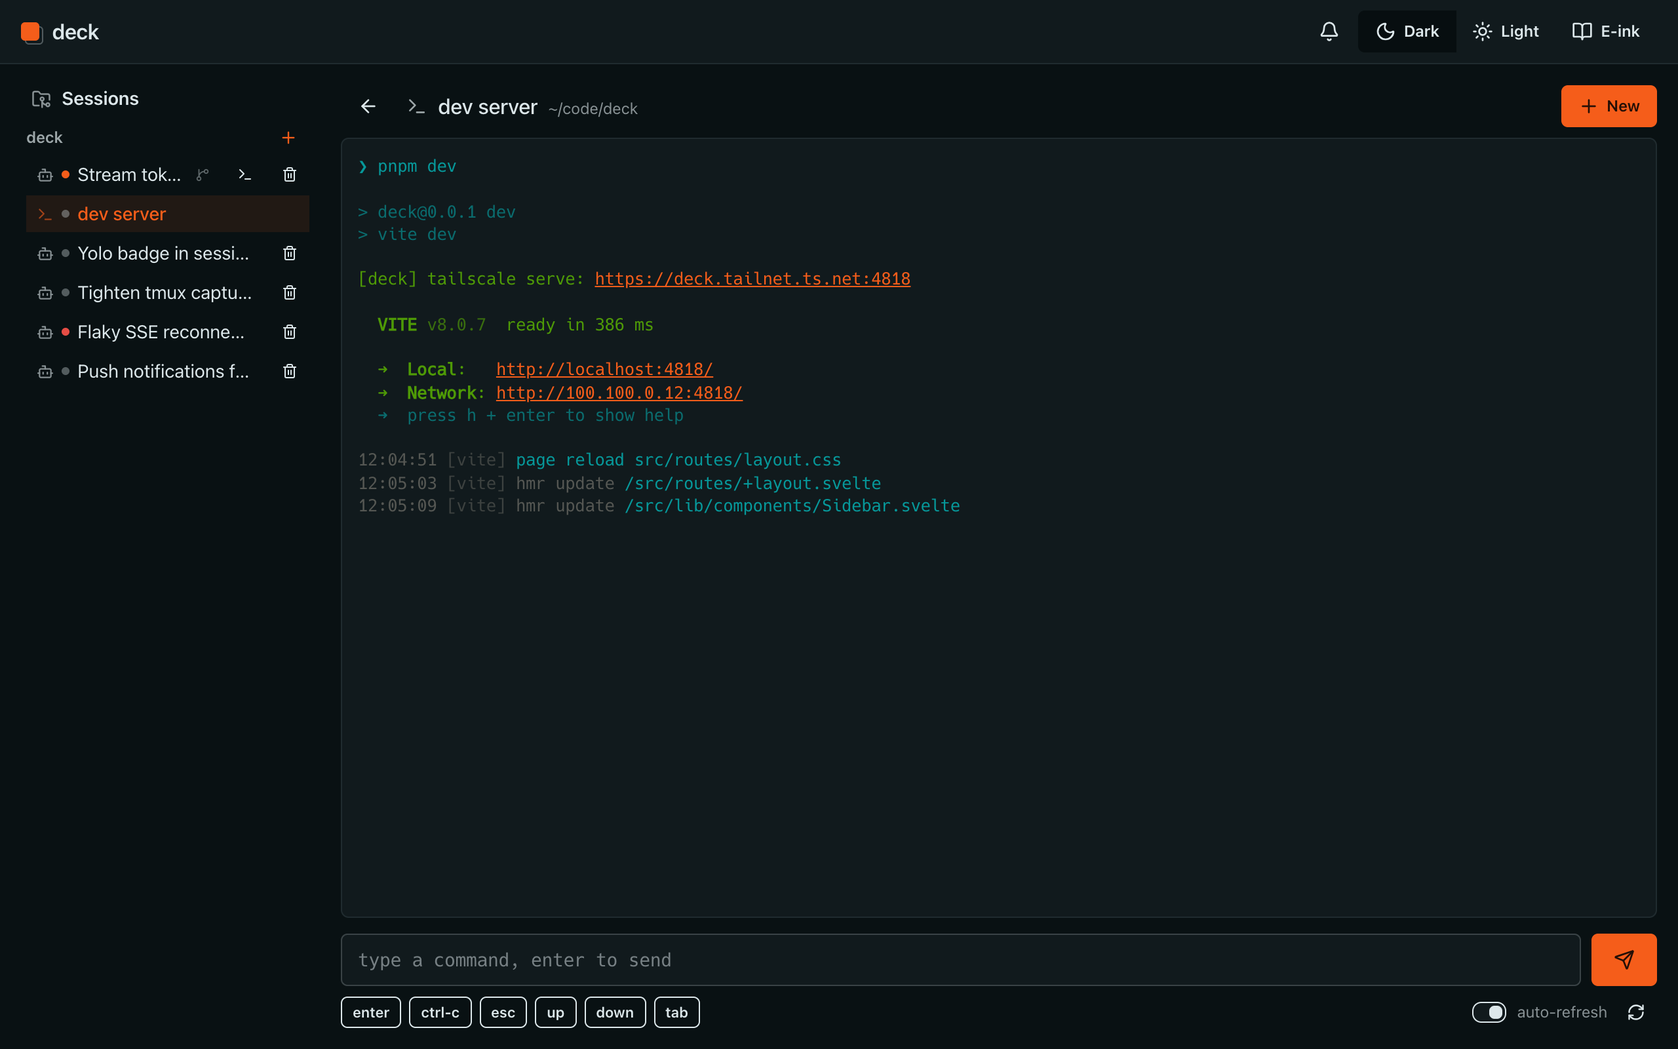
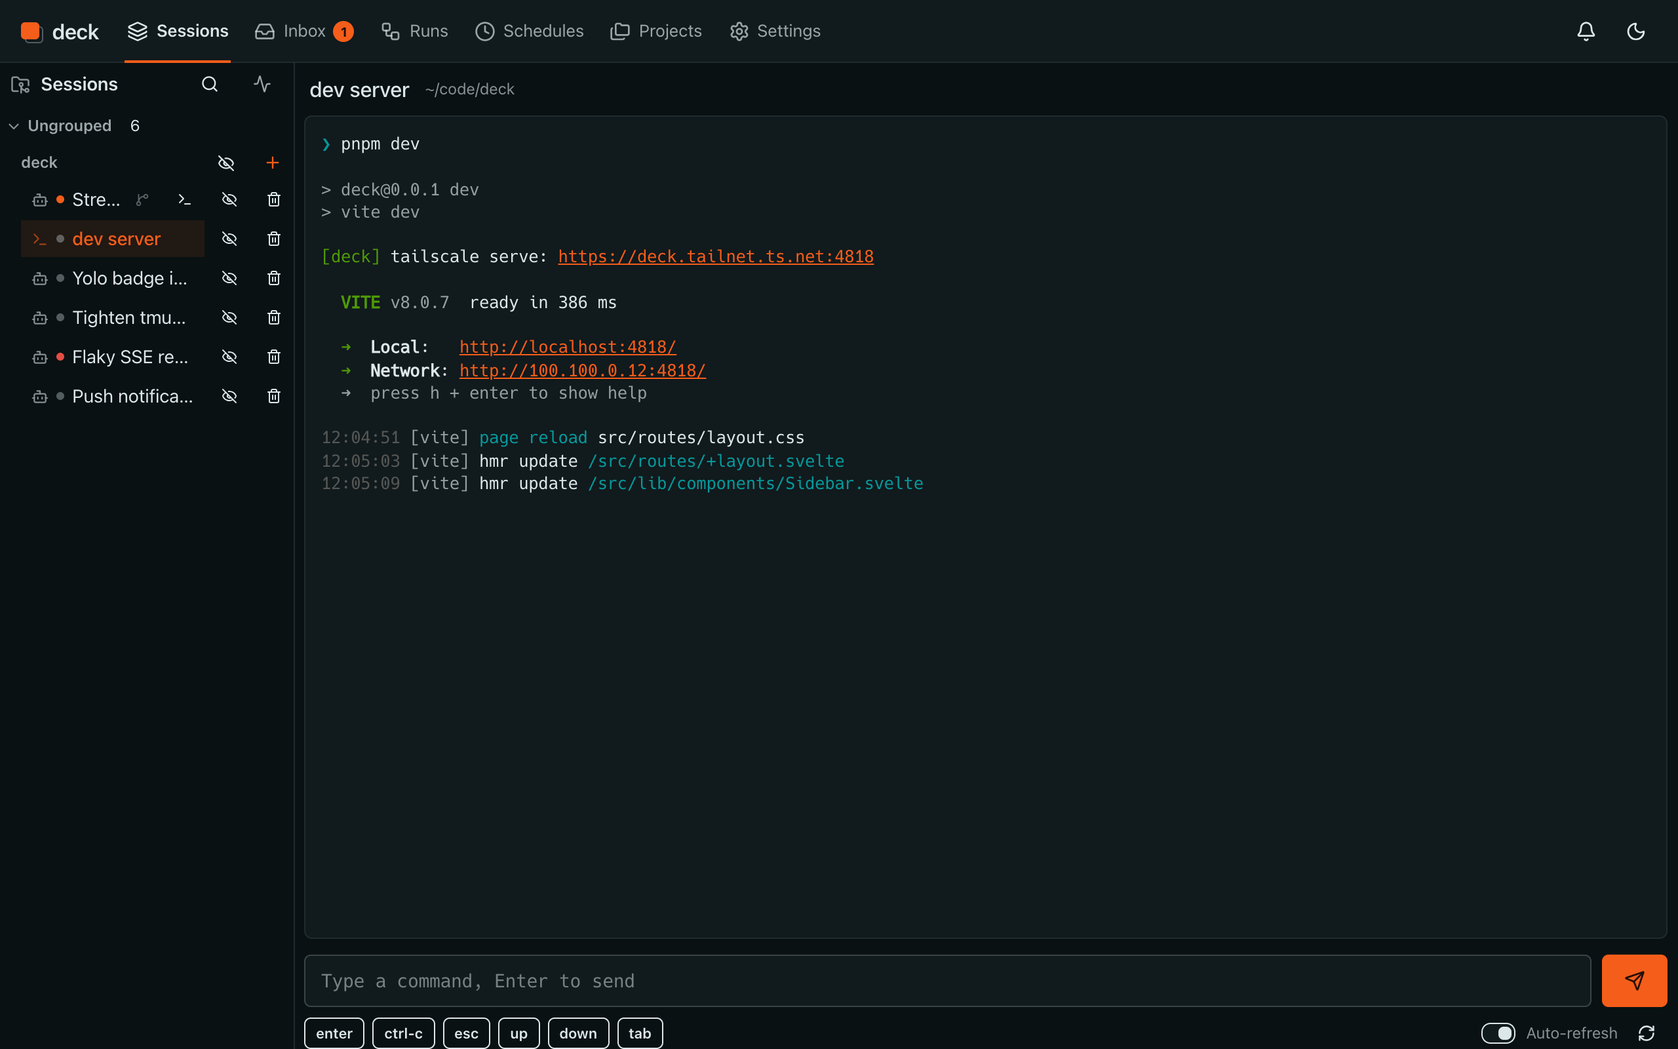
Point the docs at the settings page and refresh the screenshots
README and the iOS README send voice, the watch operator and auto-compact
to Settings instead of Projects, and the README now covers the inbox, the
settings page, sharing files, the skills picker, the app's terminal and
the native Mac app. The parity audit's remaining-differences section is
replaced with the current state: what is at parity on web, app and Mac,
what is deliberately different, and what is left.

Screenshots are regenerated from DECK_DEMO=1 at the existing sizes, plus
the inbox and settings. Demo mode gains one canned question so the inbox
shot has something in it.

Plan item P31.

diff --git a/src/lib/server/demo.ts b/src/lib/server/demo.ts
@@ -84,6 +84,30 @@ export function demoSessions(): DeckSession[] {
 	];
 }
 
+// One question waiting in the inbox, so its screenshot has something to show.
+export function demoAsks() {
+	return [
+		{
+			source: 'mcp' as const,
+			sessionId: 'c_yolo',
+			askId: 'demo-ask',
+			askedAt: Date.now() - 2 * 60_000,
+			questions: [
+				{
+					header: 'Badge style',
+					question: 'How should the yolo badge look in the session header?',
+					multiSelect: false,
+					options: [
+						{ label: 'Outline', description: 'A quiet outlined badge beside the title' },
+						{ label: 'Warning', description: 'Filled in the warning colour, hard to miss' },
+						{ label: 'Icon only', description: 'A small shield icon with a tooltip' }
+					]
+				}
+			]
+		}
+	];
+}
+
 export function demoSession(id: string): DeckSession | undefined {
 	return demoSessions().find((s) => s.id === id);
 }

diff --git a/src/routes/api/agent/asks/+server.ts b/src/routes/api/agent/asks/+server.ts
@@ -2,11 +2,13 @@ import { json } from '@sveltejs/kit';
 import type { RequestHandler } from './$types';
 import { listPendingAsks } from '$lib/server/ask';
 import { runAsks } from '$lib/server/workflow-api';
+import { DEMO, demoAsks } from '$lib/server/demo';
 
 // Every MCP `ask` currently blocking on a human answer, across all sessions,
 // oldest first, with the questions and options inline so an orchestrator can
 // answer (POST /api/agent/sessions/[id]/answer) without parsing events off an
 // SSE stream. Blocked workflow runs are listed too, with `source: "run"`.
 export const GET: RequestHandler = async () => {
+	if (DEMO) return json(demoAsks());
 	return json([...listPendingAsks(), ...runAsks()].sort((a, b) => a.askedAt - b.askedAt));
 };

diff --git a/README.md b/README.md
@@ -10,13 +10,21 @@ A structured chat view for Claude sessions, with inline diffs and collapsible to
 
 ![Claude chat view](docs/screenshots/claude-chat.png)
 
-One flat, recency-sorted list of every session across claude, pi, codex, opencode, and shells:
+One flat, recency-sorted list of every session across Claude, pi, Codex, OpenCode, and shells:
 
 ![Session list](docs/screenshots/sessions-list.png)
 
 A polled terminal view for tmux shells:
 
 ![Terminal view](docs/screenshots/terminal.png)
+
+An inbox of everything waiting on you, answered in place:
+
+![Inbox](docs/screenshots/inbox.png)
+
+Server-wide settings on one page:
+
+![Settings](docs/screenshots/settings.png)
 
 Light, dark, and e-ink themes (e-ink drops all motion and shadows for a flat, monochrome render):
 
@@ -99,7 +107,14 @@ Dev server: `pnpm dev`.
 
 ## Native apps
 
-The iPhone, iPad, Apple Watch and Mac clients live in [`apps/ios`](apps/ios/README.md): SwiftUI over deck's agent API, with Siri, Live Activities, a share extension and the voice operator. They build with XcodeGen and ship to TestFlight with fastlane; see that README.
+The iPhone, iPad, Apple Watch and Mac clients live in [`apps/ios`](apps/ios/README.md): SwiftUI over deck's agent API, with Siri, Live Activities, a share extension and the voice operator. The phone and iPad app does what the web does: chat and terminal sessions (the terminal renders the same colour snapshot, with a key bar for Enter, Ctrl-C, Esc, the arrows, Tab and Ctrl-D), starting sessions from issues or PRs, the inbox, projects, issue sources, dev servers, and the deck server's settings. The native Mac app (macOS 15 and later) runs the same session views in a Mac window, with the dev browser and push-to-talk voice, and signs in by pairing with a device that is already signed in. The watch is deliberately smaller: it shows each session's latest reply, answers questions and starts quick sessions. They build with XcodeGen and ship to TestFlight with fastlane; see that README.
+
+## Inbox and settings
+
+The nav at the top (a bottom bar on a phone) reaches every page: Sessions, Inbox, Runs, Schedules, Projects and Settings.
+
+- **Inbox** collects everything waiting on you: questions sessions have asked, and workflow runs blocked on a decision. Answer each one in place, with the same option buttons as the session view; the nav shows how many are waiting.
+- **Settings** holds what applies to the whole deck server rather than to one project: the theme (saved per browser), the voice servers, the watch operator's model, auto-compact, installing deck's skill into each coding agent, signing in another device (the QR code and access requests) and the SSH target for **Open in Zed**. **Projects** keeps per-project setup: paths, templates, issue sources, dev servers and automation.
 
 ## Remote access (Tailscale)
 
@@ -143,7 +158,7 @@ Prefer your agent harness's own notifications? deck stamps `DECK_SESSION_ID` int
 
 ## Voice mode
 
-Turn on the waveform toggle in a session's composer and deck reads each new reply aloud and lets you talk back. It needs a speech server that speaks the OpenAI audio shapes: `POST /v1/audio/speech` for reading and `POST /v1/audio/transcriptions` for push-to-talk. Point deck at yours under **Projects > Voice mode** (or the `speech` block in `~/.deck/settings.json`); **Detect local server** fills the fields when one is running on `127.0.0.1:17496`. deck proxies both, caches synthesised sentences in `~/.deck/speech/`, and hides the feature when nothing is configured.
+Turn on the waveform toggle in a session's composer and deck reads each new reply aloud and lets you talk back. It needs a speech server that speaks the OpenAI audio shapes: `POST /v1/audio/speech` for reading and `POST /v1/audio/transcriptions` for push-to-talk. Point deck at yours under **Settings > Voice** (or the `speech` block in `~/.deck/settings.json`); **Detect local server** fills the fields when one is running on `127.0.0.1:17496`. deck proxies both, caches synthesised sentences in `~/.deck/speech/`, and hides the feature when nothing is configured.
 
 What it does:
 
@@ -171,7 +186,7 @@ leaves the device. Siri covers the same ground for one-shot commands; see the
 
 An Apple Watch still asks deck to think for it: watchOS ships Apple's model
 framework but marks the model itself unavailable. That is the only thing left
-needing the `operator` block in `~/.deck/settings.json` (**Projects > Watch
+needing the `operator` block in `~/.deck/settings.json` (**Settings > Watch
 operator**): `url`, `model`, an optional `provider` (`openai` or `anthropic`,
 otherwise read from the URL), and for a hosted model either `apiKeyFile` (a
 path, so the key lives in `~/.secrets`) or `apiKey`. Pointing it at Claude costs
@@ -202,12 +217,13 @@ Upgrading with an existing `~/.deck/secrets.json` migrates automatically on the 
 - **Projects** are registered paths in `~/.deck/projects.json` that populate the new-session picker. Each can carry a template first-prompt with `[title]`, `[branch]`, `[cwd]` placeholders. The home list groups sessions by project (worktrees fold under their repo); each group has a quick-add button.
 - **Path inputs** autocomplete directories as you type and resolve a leading `~/` to your home directory.
 - **Session sidebar**: the session view has a project-grouped switcher (sticky on desktop, a hamburger drawer on mobile) for jumping between sessions, quick-adding a session to a project, or opening a shell straight into a Claude worktree.
-- **Context window**: the bar above the composer shows how full the session's context is, next to the running cost. The figure comes from the stream itself (the last assistant message's token usage, against the `contextWindow` the model reports), so a 200k and a 1M session are each measured against their own limit. **Compact** there summarises the history and frees the window on demand. Claude compacts on its own too, but only once the window is genuinely full: measured across this machine's transcripts it fires at 999k to 1003k of 1M and takes 50 to 75 seconds, all of it landing at the end of a turn you were waiting on. Turn on **Projects > Auto-compact** and deck compacts earlier, at a percentage you pick (50 to 95, default 80). What it keeps is what a handoff keeps: goal, what is done and in progress, next steps, blockers, key files, decisions, and git state. Claude sessions only.
+- **Context window**: the bar above the composer shows how full the session's context is, next to the running cost. The figure comes from the stream itself (the last assistant message's token usage, against the `contextWindow` the model reports), so a 200k and a 1M session are each measured against their own limit. **Compact** there summarises the history and frees the window on demand. Claude compacts on its own too, but only once the window is genuinely full: measured across this machine's transcripts it fires at 999k to 1003k of 1M and takes 50 to 75 seconds, all of it landing at the end of a turn you were waiting on. Turn on **Settings > Auto-compact** and deck compacts earlier, at a percentage you pick (50 to 95, default 80). What it keeps is what a handoff keeps: goal, what is done and in progress, next steps, blockers, key files, decisions, and git state. Claude sessions only.
 - **Renaming**: click a session's name in its header and type. Enter or clicking away saves, Escape puts the old name back; the iOS app has the same thing under the session menu and on a row swipe. An unregistered tmux terminal has no deck record, so renaming it renames the tmux session itself: its `t_<name>` id moves with it (deck follows the redirect), a `:` becomes `-` because tmux could not target the session otherwise, and a name another terminal already holds is refused.
 - **Questions**: when Claude asks a multiple-choice question it goes through deck's own blocking MCP `ask` tool, not the built-in `AskUserQuestion` (which the headless CLI can only auto-dismiss). deck renders the options as buttons; your pick resolves the still-open tool call and the same turn carries on. The chosen options stay on the card after reload.
 - **Tool calls** render structured: Bash shows the command, Edit/MultiEdit a red/green line diff, Write its content as an added-line diff, TodoWrite the checklist. Bash output and the diffs collapse behind a single shared toggle (collapsed by default); flip one and they all flip. Each result is paired back to its call.
-- **Images**: paste into the Claude composer, pick with the paperclip, or drag-and-drop onto the conversation. They're sent as base64 blocks and shown inline.
-- **Schedules**: a prompt that runs on a clock, for the recurring jobs that want an agent rather than a cron entry ("what changed across these repos this week, and does any of it need me"). Each schedule holds a five-field cron expression read in local time and either a project, where every run starts a fresh session, or one existing session, where every run sends into it so the context carries over. The **Schedules** page (the clock beside Runs) adds and edits them, and previews the next three runs so an expression explains itself. The command palette has *Repeat a prompt on a schedule*, which is how a session you are already in becomes one. Due times are stored rather than matched, so a window missed while deck was down fires once instead of once a minute, and a window missed by over an hour is recorded as skipped rather than caught up. A run is skipped while the previous one is still going.
+- **Images and files**: paste into the composer, pick with the paperclip, or drag-and-drop onto the conversation. Images (PNG, JPEG, GIF, WebP) are sent as base64 blocks and shown inline. Anything else (a PDF, a log, a recording) is shared as a file: deck stores it under `~/.deck/uploads/`, never in the worktree, and sends the session a message naming its path for the agent to read. Up to 10 files a message, 25 MB each; a session's uploads are deleted with it.
+- **Skills**: the composer's skills button, or a `/` at the start of a message, lists the skills installed on this machine (`~/.claude/skills` and the project's `.claude/skills`) with their descriptions; picking one fills in `/skill-name` ready for its arguments.
+- **Schedules**: a prompt that runs on a clock, for the recurring jobs that want an agent rather than a cron entry ("what changed across these repos this week, and does any of it need me"). Each schedule holds a five-field cron expression read in local time and either a project, where every run starts a fresh session, or one existing session, where every run sends into it so the context carries over. The **Schedules** page adds and edits them, and previews the next three runs so an expression explains itself. The command palette has *Repeat a prompt on a schedule*, which is how a session you are already in becomes one. Due times are stored rather than matched, so a window missed while deck was down fires once instead of once a minute, and a window missed by over an hour is recorded as skipped rather than caught up. A run is skipped while the previous one is still going.
 - **Files a message mentions**: when a bubble names a local file by absolute path, `~/`, `file://`, or `./` (a screenshot the agent took, a report it wrote), it shows under the text: images as previews that open full size, with the message's other images a swipe or arrow key away; anything else as a chip that opens or downloads it. Only files inside a registered project or its worktrees are served (`/api/sessions/<id>/files`); a mention of anything else stays plain text. Claude sessions are told (in the system prompt deck appends) to save such files under `.deck/out/` in their working directory, self-ignored from git, and to reply with the absolute path. Other agent kinds get no system prompt from deck, so put the same instruction in the project's `AGENTS.md` for them.
 
 ## Notes

diff --git a/docs/mobile-parity-audit.md b/docs/mobile-parity-audit.md
@@ -1,6 +1,6 @@
 # Web and native parity audit
 
-Scope: web/server and the separate native iOS/watchOS checkout. This audit
+Scope: web/server and the native apps (now in `apps/ios`). This audit
 traced discovery, creation, prompt dispatch, messaging, session controls,
 question answering, and transcript rendering. No live tracker credentials or
 production sessions were used for validation.
@@ -61,9 +61,8 @@ asset writes remain confined to registered projects and worktrees.
 | Dev servers | Web-only | A Dev servers sheet lists configured servers with state, ports, preview link, setup progress, start/stop/restart/re-run setup, and a polling log pane, on the existing session server routes |
 | Automation config | Web-only | Settings lists projects; each opens the automation toggles and lane agents, saved through the projects route while preserving the project name |
 
-The native client continues to use the browser send route for images and quick
-messages, preserving compatibility with older servers. Those routes now share
-the same business logic as the agent message route. The multi-issue, handoff,
+The native clients have since moved entirely onto the agent API (`/api/agent/*`),
+images and quick messages included; see Current state below. The multi-issue, handoff,
 defaults, structured-answer, diff, server, and automation features need a
 server with the corresponding routes; on an older server the phone falls back
 to CLI defaults and hides nothing it can't fetch.
@@ -76,17 +75,54 @@ PR review and merge, and bulk session deletion. These did not need to be rebuilt
 Watch and Siri share `DeckKit`, so source-identity and review-base fixes apply
 there too. The watch remains a smaller interface with Claude-only quick starts.
 
-## Remaining differences
+## Current state
 
-| Priority | Finding | Note |
-| --- | --- | --- |
-| Low | The watch shows a session's last reply, not its transcript | Deliberate: the watch is a glanceable surface with quick starts and answers; the phone carries the full transcript |
-| Low | Native has no project registration or issue-source setup | Both need local filesystem paths and API keys, which belong on the machine running deck. Configure them on the web; the phone reads the result |
-| Low | Native shells are read-only | Shell (tmux) sessions appear in the list but have no terminal view; the agent API cannot drive them either |
+Since this audit, web and native have converged on one contract: every client,
+the web app included, talks to deck through the agent API (`/api/agent/*`), and
+the server keeps the business logic. `GET /api/agent` lists the server's
+capabilities so a client can hide what an older server lacks.
 
-Share business services, keep route adapters compatible, and expose explicit
-capabilities/defaults where native UI needs them. Avoid adding a third set of
-behavioral rules to the phone.
+### At parity
+
+The Mac app is the newest client: it has the session view (list, transcript,
+question card, composer, terminal), the dev browser and push-to-talk voice. Its
+settings, windows and keyboard commands come next; until then a Mac user sets
+deck up on the web.
+
+| Area | Web | iPhone and iPad | Mac |
+| --- | --- | --- | --- |
+| Sessions: list, transcript, send, stop, answer questions | Yes | Yes | Yes |
+| Rename, hide and delete sessions | Yes | Yes | Not yet |
+| Terminal sessions: colour snapshot, typing, named keys | Yes | Yes (key bar) | Yes |
+| Starting a terminal session | Yes | Yes | Not yet |
+| Starting work or review from issues and PRs, one session per item, existing worktrees | Yes | Yes | Not yet |
+| Restart Claude, dismiss a PR, confirm an expensive model | Yes | Yes | Not yet |
+| Inbox of questions and blocked runs | Yes (`/inbox`) | Yes | Not yet |
+| Sharing images | Yes | Yes | Not yet |
+| Sharing other files | Yes (composer) | Yes (share extension) | Not yet |
+| Projects: add, clone, remove, templates, dev servers, issue sources | Yes | Yes (Settings) | Not yet |
+| Server settings: voice, watch operator, auto-compact, Zed, agent skills | Yes (`/settings`) | Yes (Settings > deck server settings) | Not yet |
+| Approving a new device | Yes | Yes | Not yet |
+| Changes view and dev servers | Yes | Yes | Not yet |
+| Schedules and workflow runs | Yes | Yes | Not yet |
+
+### Deliberately different
+
+| Finding | Note |
+| --- | --- |
+| The watch shows a session's last reply, not its transcript | The watch is a glanceable surface: latest replies, answers to questions, quick starts and the voice operator. The phone carries the full transcript |
+| The operator runs on the device | The phone and Mac use Apple's on-device model; the browser has none, so the web has no operator. Only the watch asks deck to think for it |
+| The skills picker is web-only | The web composer lists installed skills on its button or a leading `/`. The apps reach skills through the operator, which turns "run a skill" into the slash command |
+| Siri, Live Activities, widgets and the share extension | Native-only by nature; the web has push notifications and the PWA instead |
+| The dev browser | Native-only: the app tunnels to the deck machine's dev servers, which a phone cannot reach by `localhost` |
+
+### Left to do
+
+| Finding | Note |
+| --- | --- |
+| File sharing on the Mac | The Mac app has no share extension and no attach button yet; the share extension is an iOS target, and a macOS one is still to build |
+| Browser routes kept as adapters | Installed builds from before the agent-API move still call the old browser routes. They stay as thin adapters over the shared handlers until those builds expire from TestFlight (90 days after the agent-only build ships), then go |
+| Mac app distribution | The Mac build needs the macOS platform added to the app id on the Apple side before it can upload; its proxy, keychain and voice paths have not been tested on a signed build |
 
 ## Validation
 

diff --git a/apps/ios/README.md b/apps/ios/README.md
@@ -67,7 +67,7 @@ talk to; without the two variables they skip. They only read and cancel, never
 confirm a delete.
 
 Point them at a deck started with `--host`. Vite with no `--host` binds `[::1]`
-only, so the simulator cannot reach `127.0.0.1:<port>` — and the app then
+only, so the simulator cannot reach `127.0.0.1:<port>`, and the app then
 renders as if signed in with no data (an empty Inbox, "No projects") rather than
 reporting that it cannot connect, which reads like a bug in the screen under
 test. `curl -o /dev/null -w '%{http_code}' http://127.0.0.1:<port>/` returning
@@ -124,8 +124,8 @@ with an energy detector; sensitivity adjustable) which can interrupt a reply
 mid-sentence. Reading continues behind the lock screen for the session you
 turned it on for; the watch reads while its Voice screen is open.
 
-It needs deck configured with a speech server (deck's **Projects > Voice
-mode**); the button only appears when `GET /api/agent/speech` reports one. The phone
+It needs deck configured with a speech server (**Settings > Voice** on the
+web, or **Settings > deck server settings** here); the button only appears when `GET /api/agent/speech` reports one. The phone
 never talks to the speech server directly.
 
 ## Operator
@@ -167,11 +167,12 @@ tool call a tool call, and keep what comes back small.
 
 Needs Apple Intelligence on and iOS 26 or later; the tab says so when it is
 missing. It still needs deck configured with a speech server for the voice part
-(deck's **Projects > Voice mode**).
+(**Settings > Voice** on the web, or **Settings > deck server settings** here).
 
 The watch is the exception: watchOS ships the model framework but marks the
 model itself unavailable, so the watch Operator page still asks deck to think
-for it and needs the `operator` block in deck's settings. No wake word there
+for it and needs deck's watch operator settings (**Settings > Watch operator**
+on the web). No wake word there
 either, since watchOS has no on-device recogniser for one.
 
 ## Operator model
@@ -209,7 +210,7 @@ operator keeps using Apple's.
 [`mlx-swift-lm`](https://github.com/ml-explore/mlx-swift-lm)'s
 `MLXFoundationModels` bridges an MLX model to Apple's own
 `FoundationModels.LanguageModel`, so a downloaded model plugs into
-`LanguageModelSession` and **deck's seven operator tools are unchanged** — only
+`LanguageModelSession` and **deck's seven operator tools are unchanged**; only
 which model answers differs. That bridge is why this is a model-management
 feature rather than a second operator.
 
@@ -359,8 +360,8 @@ Long-press any reply to have it read aloud.
 A session's menu shows how full its context window is and offers **Compact
 context**, which summarises the history and frees the window. A row in the list
 grows a `context 78%` chip once it passes two thirds, red past 85%. deck can
-also compact on its own at a threshold you set; that lives in deck's own
-settings, not here.
+also compact on its own at a threshold you set, under **Settings > deck server
+settings** here or **Settings > Auto-compact** on the web.
 
 Rename a session from its menu (**Rename**) or by swiping its row in the list.
 An unregistered tmux terminal has no record on the deck side, so renaming it
